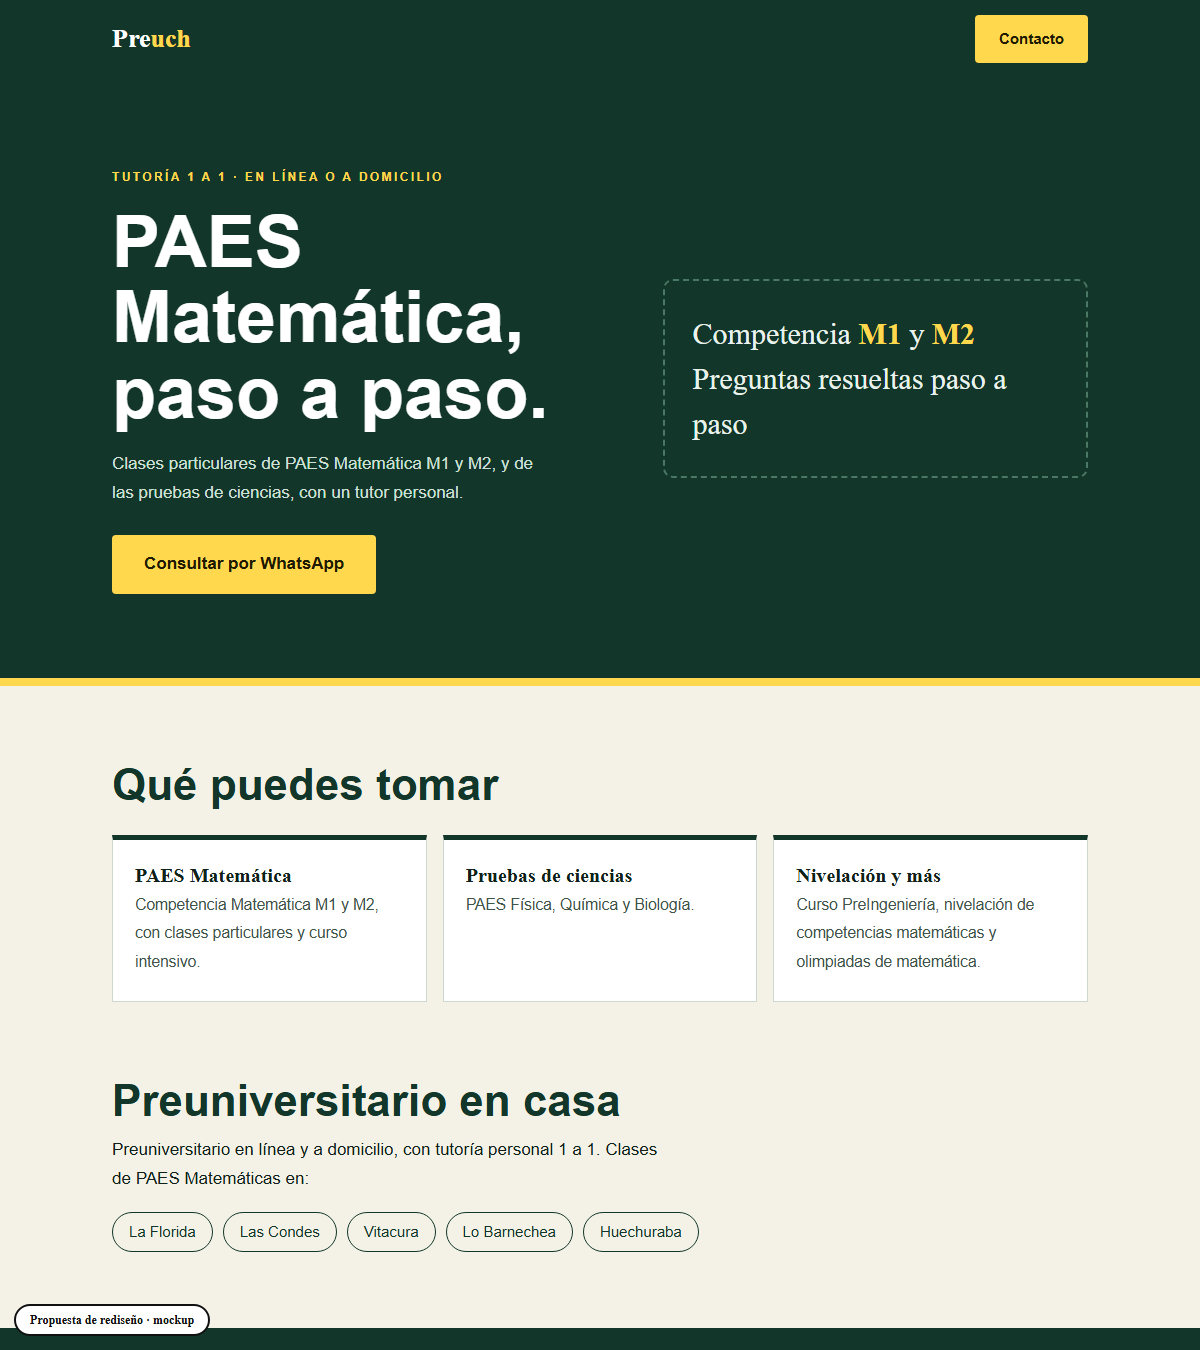
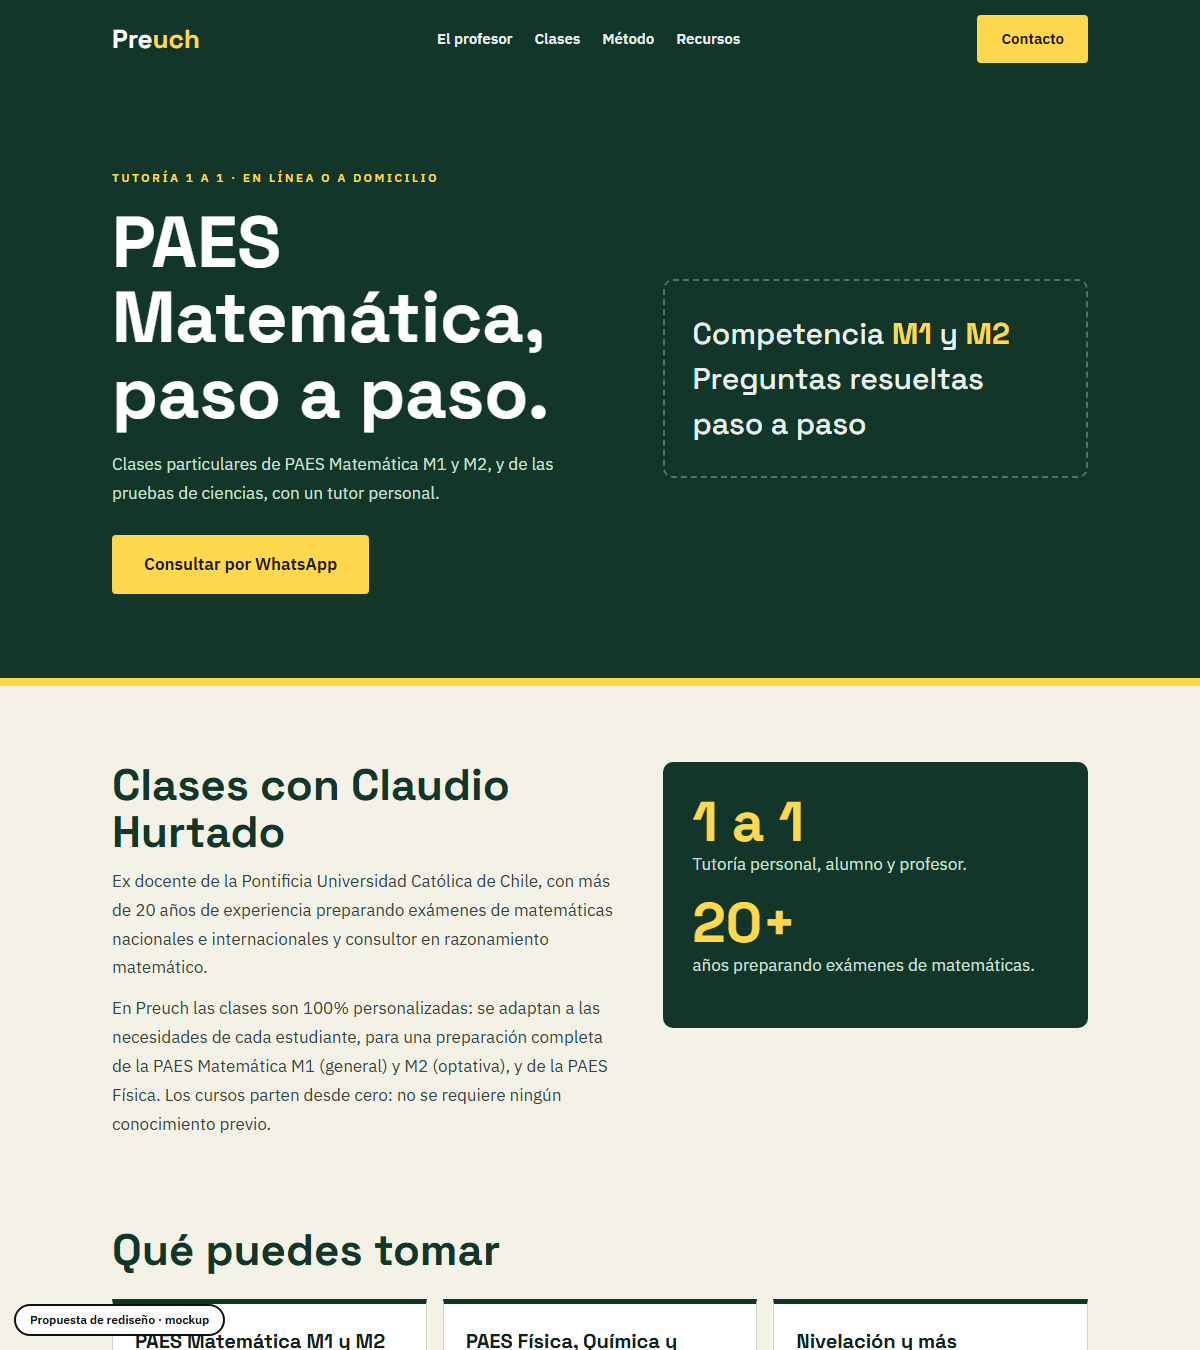
Mockup: clases-paes-matematica-la-florida

diff --git a/clases-paes-matematica-la-florida/index.html b/clases-paes-matematica-la-florida/index.html
@@ -6,12 +6,12 @@
 <link href="https://fonts.googleapis.com/css2?family=Space+Grotesk:wght@500;700&family=IBM+Plex+Sans:wght@400;500;600&display=swap" rel="stylesheet">
 <style>
 :root{--board:#12372a;--chalk:#f4f1e6;--yellow:#ffd84d;--ink:#10201a;--line:#cfd8cf}
-*{box-sizing:border-box;margin:0}html{scroll-behavior:smooth}
+*{box-sizing:border-box;margin:0}html{scroll-behavior:smooth;scroll-padding-top:100px}
 @media(prefers-reduced-motion:reduce){html{scroll-behavior:auto}}
 body{background:var(--chalk);color:var(--ink);font:400 17px/1.7 'IBM Plex Sans',sans-serif}
 .wrap{max-width:1020px;margin:0 auto;padding:0 22px}
 h1,h2,h3{font-family:'Space Grotesk',sans-serif;line-height:1.05}
-header{background:var(--board);color:#fff}header .wrap{display:flex;justify-content:space-between;align-items:center;height:78px}
+header{position:sticky;top:0;z-index:20;background:var(--board);color:#fff}header .wrap{display:flex;justify-content:space-between;align-items:center;height:78px}
 .brand{font:700 26px 'Space Grotesk'}.brand i{font-style:normal;color:var(--yellow)}
 header a{background:var(--yellow);color:#1f1a00;text-decoration:none;padding:11px 24px;font-weight:600;font-size:15px;border-radius:4px}
 header a:hover{background:#fff}
@@ -29,13 +29,17 @@ section{padding:76px 0}h2{font-size:clamp(28px,4.2vw,44px);margin-bottom:12px;co
 .contact{background:var(--board);color:#fff;text-align:center}.contact h2{color:#fff}.contact a.l{display:block;font:700 clamp(32px,5.6vw,60px) 'Space Grotesk';color:var(--yellow);text-decoration:none;margin:8px 0}
 .contact a.l:hover{color:#fff}
 footer{padding:22px 0 90px;text-align:center;font-size:13px;color:#667}
-.mock{position:fixed;left:14px;bottom:14px;background:#fff;color:#111;border:2px solid #111;font:600 12px/1 'IBM Plex Sans';padding:8px 14px;border-radius:30px;z-index:9}
+.mock{z-index:30;position:fixed;left:14px;bottom:14px;background:#fff;color:#111;border:2px solid #111;font:600 12px/1 'IBM Plex Sans';padding:8px 14px;border-radius:30px;z-index:9}
 @media(max-width:820px){.hero .wrap{grid-template-columns:1fr;padding:50px 22px}.sv{grid-template-columns:1fr}}
-</style></head><body>
-<header><div class="wrap"><div class="brand">Pre<i>uch</i></div><a href="#contacto">Contacto</a></div></header>
+nav{display:flex;gap:22px;font-size:15px;font-weight:600}nav a{color:#e6f0ea;text-decoration:none;background:none;padding:0;border-radius:0}nav a:hover{color:var(--yellow);background:none}.pf{display:grid;grid-template-columns:1.2fr 1fr;gap:40px;align-items:start}.pf p{margin-bottom:12px;color:#33463d}.card{background:var(--board);color:#fff;border-radius:10px;padding:32px 30px}.card b{font:700 56px/1 "Space Grotesk";color:var(--yellow);display:block}.card span{display:block;margin-bottom:16px;color:#cfe1d7}.met{display:grid;grid-template-columns:repeat(3,1fr);gap:16px;margin-top:24px}.met>div{background:#fff;border:1px solid var(--line);border-top:5px solid var(--yellow);padding:24px 22px}.met b{font:700 20px "Space Grotesk";display:block;margin-bottom:4px}.met span{font-size:15.5px;color:#41544a}.free{background:var(--yellow);color:#1f1a00}.free .wrap{display:flex;justify-content:space-between;align-items:center;gap:20px;flex-wrap:wrap}.free h2{color:#1f1a00;margin:0}.free a{background:#1f1a00;color:#fff;text-decoration:none;padding:14px 30px;font-weight:600;border-radius:4px}.res{display:flex;flex-wrap:wrap;gap:10px;margin-top:18px}.res span{background:#fff;border:1px solid var(--board);color:var(--board);border-radius:30px;padding:6px 16px;font-size:14.5px}@media(max-width:860px){nav{display:none}.pf,.met{grid-template-columns:1fr}}</style></head><body>
+<header><div class="wrap"><div class="brand">Pre<i>uch</i></div><nav><a href="#profe">El profesor</a><a href="#clases">Clases</a><a href="#metodo">Método</a><a href="#recursos">Recursos</a></nav><a class="b" href="#contacto">Contacto</a></div></header>
 <div class="hero"><div class="wrap"><div><small>Tutoría 1 a 1 · En línea o a domicilio</small><h1>PAES Matemática, paso a paso.</h1><p>Clases particulares de PAES Matemática M1 y M2, y de las pruebas de ciencias, con un tutor personal.</p><a class="btn" href="https://wa.me/56937780070?text=Hola%2C%20quisiera%20informaci%C3%B3n%20sobre%20las%20clases%20PAES">Consultar por WhatsApp</a></div><div class="eq">Competencia <b>M1</b> y <b>M2</b><br>Preguntas resueltas paso a paso</div></div></div>
-<section><div class="wrap"><h2>Qué puedes tomar</h2><div class="sv"><div><b>PAES Matemática</b><span>Competencia Matemática M1 y M2, con clases particulares y curso intensivo.</span></div><div><b>Pruebas de ciencias</b><span>PAES Física, Química y Biología.</span></div><div><b>Nivelación y más</b><span>Curso PreIngeniería, nivelación de competencias matemáticas y olimpiadas de matemática.</span></div></div></div></section>
-<section style="padding-top:0"><div class="wrap"><h2>Preuniversitario en casa</h2><p style="max-width:58ch">Preuniversitario en línea y a domicilio, con tutoría personal 1 a 1. Clases de PAES Matemáticas en:</p><div class="zones"><span>La Florida</span><span>Las Condes</span><span>Vitacura</span><span>Lo Barnechea</span><span>Huechuraba</span></div></div></section>
+<section id="profe"><div class="wrap pf"><div><h2>Clases con Claudio Hurtado</h2><p>Ex docente de la Pontificia Universidad Católica de Chile, con más de 20 años de experiencia preparando exámenes de matemáticas nacionales e internacionales y consultor en razonamiento matemático.</p><p>En Preuch las clases son 100% personalizadas: se adaptan a las necesidades de cada estudiante, para una preparación completa de la PAES Matemática M1 (general) y M2 (optativa), y de la PAES Física. Los cursos parten desde cero: no se requiere ningún conocimiento previo.</p></div><div class="card"><b>1 a 1</b><span>Tutoría personal, alumno y profesor.</span><b>20+</b><span>años preparando exámenes de matemáticas.</span></div></div></section>
+<section id="clases" style="padding-top:0"><div class="wrap"><h2>Qué puedes tomar</h2><div class="sv"><div><b>PAES Matemática M1 y M2</b><span>Clases particulares y curso intensivo.</span></div><div><b>PAES Física, Química y Biología</b><span>Preparación de las pruebas de ciencias.</span></div><div><b>Nivelación y más</b><span>Curso PreIngeniería, nivelación de competencias matemáticas y olimpiadas de matemática.</span></div></div>
+<h2 style="margin-top:50px">Preuniversitario en casa o en línea</h2><p style="max-width:58ch">Clases en línea, a tu ritmo y desde casa, o a domicilio, en:</p><div class="zones"><span>La Florida</span><span>Las Condes</span><span>Vitacura</span><span>Lo Barnechea</span><span>Huechuraba</span></div></div></section>
+<section id="metodo" style="padding-top:0"><div class="wrap"><h2>Método “Open your Mind”</h2><div class="met"><div><b>Comprensión profunda</b><span>Una metodología clara y eficaz, basada en la comprensión de los conceptos, la resolución de problemas y su aplicación práctica.</span></div><div><b>Material en cada clase</b><span>En cada clase entrega una guía teórica, una guía de ejercicios y ensayos con claves de respuestas.</span></div><div><b>A tu ritmo</b><span>Las clases en línea permiten aprender a tu propio ritmo y desde la comodidad de tu hogar.</span></div></div></div></section>
+<section id="recursos" style="padding-top:0"><div class="wrap"><h2>Preguntas resueltas paso a paso</h2><p style="max-width:62ch;color:#33463d">El sitio publica pruebas oficiales rendidas y sus preguntas desarrolladas, además de los resultados de cada proceso de admisión.</p><div class="res"><span>PAES M1 Forma 113 · 2023</span><span>PAES Invierno M1 Forma 111 · 2024</span><span>PAES M2 2023</span><span>Preguntas de mayor dificultad</span><span>Resultados PAES de invierno</span><span>Sistema de acceso a las universidades</span></div></div></section>
+<section class="free"><div class="wrap"><h2>Gana una clase gratis de 20 minutos</h2><a href="https://wa.me/56937780070?text=Hola%2C%20quiero%20mi%20clase%20gratis%20de%2020%20minutos">Escribe tus dudas</a></div></section>
 <section class="contact" id="contacto"><div class="wrap"><h2>Pregunta por las clases</h2><a class="l" href="https://wa.me/56937780070">+56 9 3778 0070</a><p>La Florida · <a style="color:#fff" href="mailto:clasespaesmatematica@gmail.com">clasespaesmatematica@gmail.com</a></p></div></section>
 <footer>PREUCH · CLASES PAES MATEMÁTICA</footer>
 <div class="mock">Propuesta de rediseño · mockup</div></body></html>
